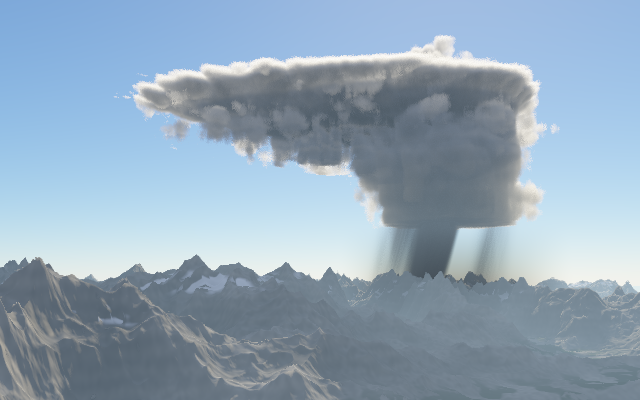
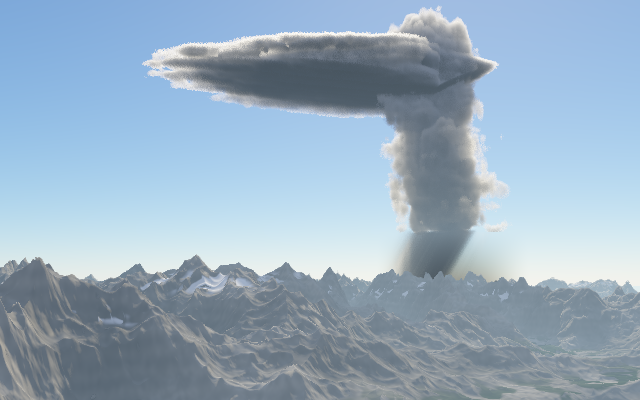
Storm: a towering cumulonimbus, not a drum (#134)
The cell was a straight column under a thick, even slab. lib/fc_storm.ps
now shapes it as a cumulonimbus:

- Tower: radius profile (StormFootR) and cauliflower lobes from a 3-D
  noise (StormBulge, StormBulgeScale); a base that frays toward the edge
  and stays solid over the rain (StormBaseRag).
- Anvil: a thin wedge that caps the tower with an overhang (AnvilRoot),
  fans out downwind (AnvilW) and thins away from the tower (AnvilThin,
  AnvilFlare), its top tilting down (AnvilTilt), frayed by streaks along
  the wind (AnvilFiber). The dome is centred on the tower top so it
  rises clear of the anvil.
- Rain: a new layer key RainDriftX/Z in fc_clouds.ps reads the rain where
  it left the base, so the whole curtain leans (the mask alone leaned
  inside a straight column); StormRainSoft fades its sides.
- Virga reworked to hang from the wedge's underside; off in the piece
  (its 2-D streaks read as lit squares).

gallery/storm.ps: farther (700) and taller (base 100, top 290) so the
anvil is much wider than the tower. Other pieces' regress references are
unchanged; storm's reference and preview are re-rendered.

Claude-Session: https://claude.ai/code/session_016y8NtTPdgbbuzzNmswesSy

diff --git a/docs/settings.md b/docs/settings.md
@@ -645,7 +645,8 @@ single layer, `CloudLayers` null, keeps its old cut-off).
 | `Shape` | null | A procedure `x y z oct → dd` (`oct`: the octaves the sample wants, fewer with distance) added to the density before the gain: a positive value adds cloud, a negative one cuts it. Only called inside the band (`Lo < y < Hi`), so a placed object needs a band tall enough to hold it. For placed objects such as a cumulonimbus (#15). Costs a call per sample. It is called before the noise: a value of −1 or less means nothing is there, and the noise is skipped (keep the threshold and coverage such that the noise can't lift −1 above 0). |
 | `RainShafts` | 0 | Above 0: the rain is broken into shafts by 2-D noise with this many cells per unit (the storm uses 0.06); 0 is the old solid curtain. |
 | `Bounds` | null | `[x0 z0 x1 z1]`, world x and z (the camera stands at x = z = 0): the layer is empty outside this box, and each ray marches only the part of the band inside it, with all its `Steps`. For a placed object, so a tall band doesn't make every sky ray march its whole height. |
-| `RainMask` | null | A procedure `x z → 0..1` multiplying the rain (after `RainShafts`); the sample's own height is in `ClRainY` while it runs (the storm leans its shafts by it). A layer with one also lights its rain with `AmbBot`, as under the base, rather than the ambient a quarter of the way up. The storm uses it to fade the rain toward the edge of the tower's foot. |
+| `RainDriftX`, `RainDriftZ` | 0, 0 | The rain is blown this far in world x and z per unit it falls: a rain sample reads the cloud (and `RainShafts` and `RainMask`) that far upwind, where its rain left the base, so the whole curtain leans (#134). |
+| `RainMask` | null | A procedure `x z → 0..1` multiplying the rain (after `RainShafts`); the sample's own height is in `ClRainY` while it runs. With a drift, x and z are already where the rain left the base. A layer with one also lights its rain with `AmbBot`, as under the base, rather than the ambient a quarter of the way up. The storm uses it to fade the rain toward the edge of the tower's foot. |
 | `Probes` | 1 | A whole number, at least 1: density probes per layer for the ground's cloud shadow and `fc-cloud-sky`, spread evenly over the band above the point. 1 keeps the old single probe at the middle; a tall object needs more (the storm uses 8; with 3 none landed in its anvil, which cast no shadow, #101). |
 | `LightDepth` | null | A procedure `x y z → od`: optical depth toward the sun added to the two short sun probes', for a placed object's shadow on itself at a larger scale than the probes reach (#15). Called once per lit sample. |
 | `AmbShade` | null | A procedure `x y z → 0..1` multiplying the ambient (sky) light of a sample, not of its rain: the cloud's occlusion of its own sky, so undersides and crevices go dark (#101). Called once per lit sample. |
@@ -684,29 +685,39 @@ it in front of `CloudLayers`. Set them, like every setting, before the run lines
 
 | Setting | Default | Meaning | Storm |
 |---|---|---|---|
-| `StormDist` | 420 | Ground distance from the camera to the tower's foot. | 460 |
+| `StormDist` | 420 | Ground distance from the camera to the tower's foot. | 700 |
 | `StormAzim` | 0 | Its bearing in degrees: 0 is +z (straight ahead at `Yaw` 0), 90 is +x. | −5 |
-| `StormBase` | 70 | The flat, dark base (keep it above the peaks in front, or it hides, and the rain under it with it). | 84 |
-| `StormTop` | 180 | The anvil's flat top. | |
-| `StormR` | 55 | Tower radius at the base. | |
-| `StormFlare` | 0.3 | The tower is this much wider at the top. | |
-| `StormLean` | 0.15 | The tower leans downwind this much per unit height. | |
+| `StormBase` | 70 | The dark base (keep it above the peaks in front, or it hides, and the rain under it with it). | 100 |
+| `StormBaseRag` | 0 | Above 0: the bottom this many units of the tower fade in over a 3-D noise, so the base is ragged, not a flat lid. | 20 |
+| `StormTop` | 180 | The anvil's top at the tower. | 290 |
+| `StormR` | 55 | Tower radius (at its widest, before `StormFlare`). | 55 |
+| `StormFootR` | 0.8 | Its radius at the base, as a fraction of `StormR`: it swells from there to `StormR` a little over half way up and draws in under the anvil. 1 keeps it even. | 1 |
+| `StormFlare` | 0.3 | The tower is this much wider at the top (negative: narrower). | −0.2 |
+| `StormBulge`, `StormBulgeScale` | 0, 0.03 | Above 0: the tower's radius swells and shrinks by up to this fraction in lobes of a 3-D noise with `StormBulgeScale` cells per unit: the cauliflower outline (#134). | 0.4 |
+| `StormLean` | 0.15 | The tower leans downwind this much per unit height. | 0.12 |
 | `StormWind` | 0 | Where the anvil spreads, degrees from +x (as a layer's `Wind`). | 200 |
-| `AnvilBot` | 152 | Where the anvil starts to spread from the tower; it widens with height up to the top. | |
-| `AnvilR` | 170 | How far it reaches downwind (upwind: a third of that). | |
-| `AnvilW` | 0.4 | Its half-width across the wind, as a fraction of its reach. | |
-| `DomeR` | 34 | Radius of the overshooting dome, centred 0.2 `DomeR` above the tower top; 0 for none. | |
+| `AnvilBot` | 152 | The anvil's underside at the tower: it is `StormTop − AnvilBot` thick there and thins outward, its underside rising (#134: a wedge, not a slab). | 250 |
+| `AnvilR` | 170 | How far it reaches downwind from the tower top. | 300 |
+| `AnvilW` | 0.4 | Its half-width grows by this fraction of `AnvilR` downwind (a fan), on top of the overhang. | 0.2 |
+| `AnvilRoot` | 1.6 | The overhang round the tower top, in the tower's radius: the anvil caps the tower on every side, with an underside upwind too. | 1.4 |
+| `AnvilBack` | 0.1 | How far it reaches upwind past the overhang, as a fraction of `AnvilR`. | 0.05 |
+| `AnvilThin` | 6 | Its thickness at the far edge. | |
+| `AnvilFlare` | 1.5 | How fast it thins away from the tower: thickness goes as (1 − reach)^`AnvilFlare`. | 1.2 |
+| `AnvilTilt` | 0 | Its top falls this much per unit downwind. | 0.03 |
+| `AnvilFiber` | 0 | Above 0: streaks of a 3-D noise stretched along the wind fray it, this strong. | 0.3 |
+| `DomeR` | 34 | Radius of the overshooting dome, centred on the tower top, so it rises `DomeR` over the anvil (seen from below, the anvil's near edge hides the lower part: the piece needs 60); 0 for none. | 60 |
 | `StormEdge` | 2 | Gain of the envelope against the noise: higher is a tighter, smoother outline, lower more ragged, with turrets breaking the tower's sides. | 1.2 |
 | `AnvilEdge` | 4 | The anvil's gain relative to the tower's (smoother). | |
 | `StormShade` | 0.25 | Optical depth per unit length of envelope toward the sun (the layer's `LightDepth`): how dark the far side and the base get. | |
 | `StormShadeN`, `StormShadeStep` | 5, 16 | Its steps toward the sun, starting past the noise's two probes. | |
-| `Virga` | 0.3 | Strength of the curtain of streaks hanging under the anvil, densest at the underside; 0 for none. | |
+| `Virga` | 0.3 | Strength of the curtain of streaks hanging under the anvil's underside, densest there; 0 for none. | 0 (its 2-D streaks hung as lit squares under the raised underside, #134) |
 | `VirgaLen` | 26 | How far they hang. | |
 | `VirgaScale` | 0.2 | Their streaks: cells of a 2-D noise per unit. | |
-| `StormRain` | 84 | Rain shafts this far below the base (the layer's `Rain`). | |
+| `StormRain` | 84 | Rain shafts this far below the base (the layer's `Rain`). | 100 |
 | `StormRainDens` | 0.3 | Their density, as a fraction of the cloud's; the rain is masked by `fc-storm-rainmask` (fades toward the edge of the tower's foot, broad shafts streaked by a finer noise). | 0.45 |
-| `StormRainSlant` | 0 | The rain is blown downwind this much per unit it falls, so the shafts lean. | 0.3 |
-| `StormRainFine` | 0 | Above 0: fine streaks in the shafts, this strong (0..1). | 0.6 |
+| `StormRainSlant` | 0 | The rain is blown downwind this much per unit it falls (the layer's `RainDriftX`, `RainDriftZ`), so the curtain leans. | 0.6 |
+| `StormRainSoft` | 0 | The rain fades out this far past the edge of the tower's foot, in envelope units (0.5: half a radius), so the curtain's sides are soft. | 0.5 |
+| `StormRainFine` | 0 | Above 0: fine streaks in the shafts, this strong (0..1). | 0.45 |
 | `StormAmbOcc`, `StormAmbStep` | 0.1, 5 | The sky light a sample loses to the cloud above it (the layer's `AmbShade`): this share of the optical depth one probe `StormAmbStep` straight up, so the billows' undersides, the base and the anvil's underside go dark. | 0.25 |
 | `StormBaseDark`, `StormBaseDarkH` | 0.3, 0.5 | Times a ramp of the sky light from `StormBaseDark` at the base to 1 at `StormBaseDarkH` of the way up the tower. | 0.15 |
 | `StormSkyDim` | 0.85 | The share of its sky light the ground loses under the storm, falling off with distance (half at `StormSkyR · StormR` from the tower's axis or the anvil's middle). It wraps `fc-cloud-sky`, so it acts only where `CloudSkyDim` > 0. A storm this size hides a broad part of the sky, which the straight-up probes don't see. | |
